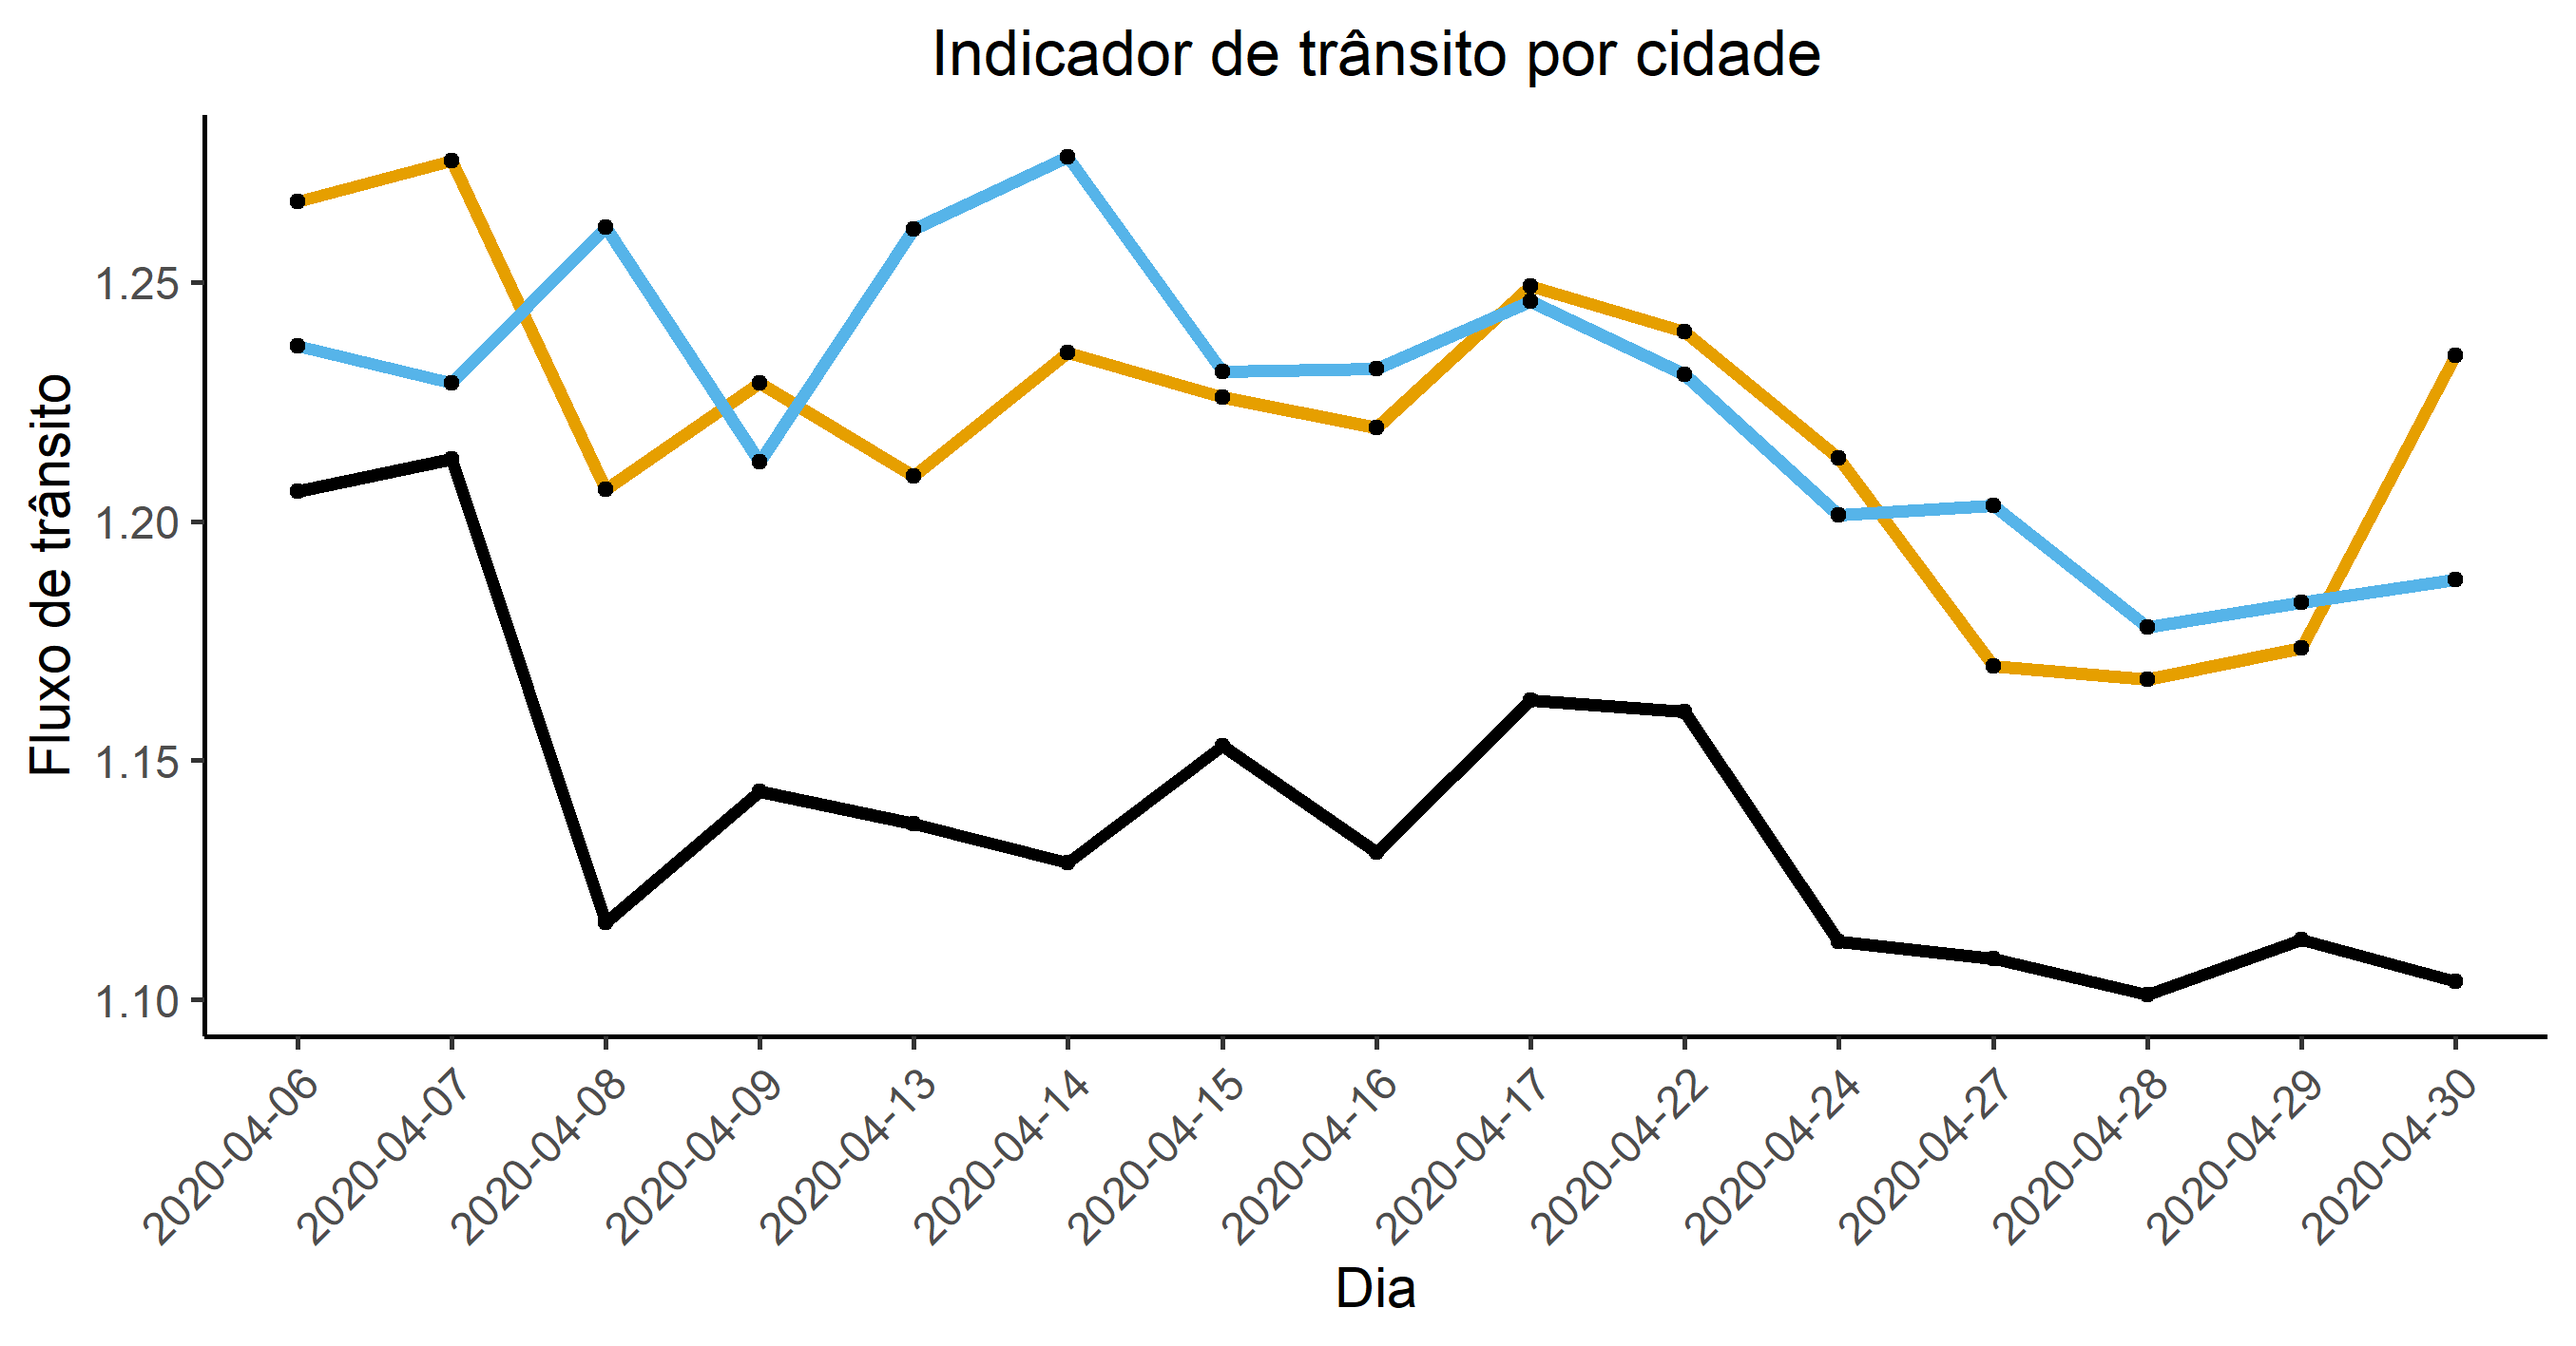
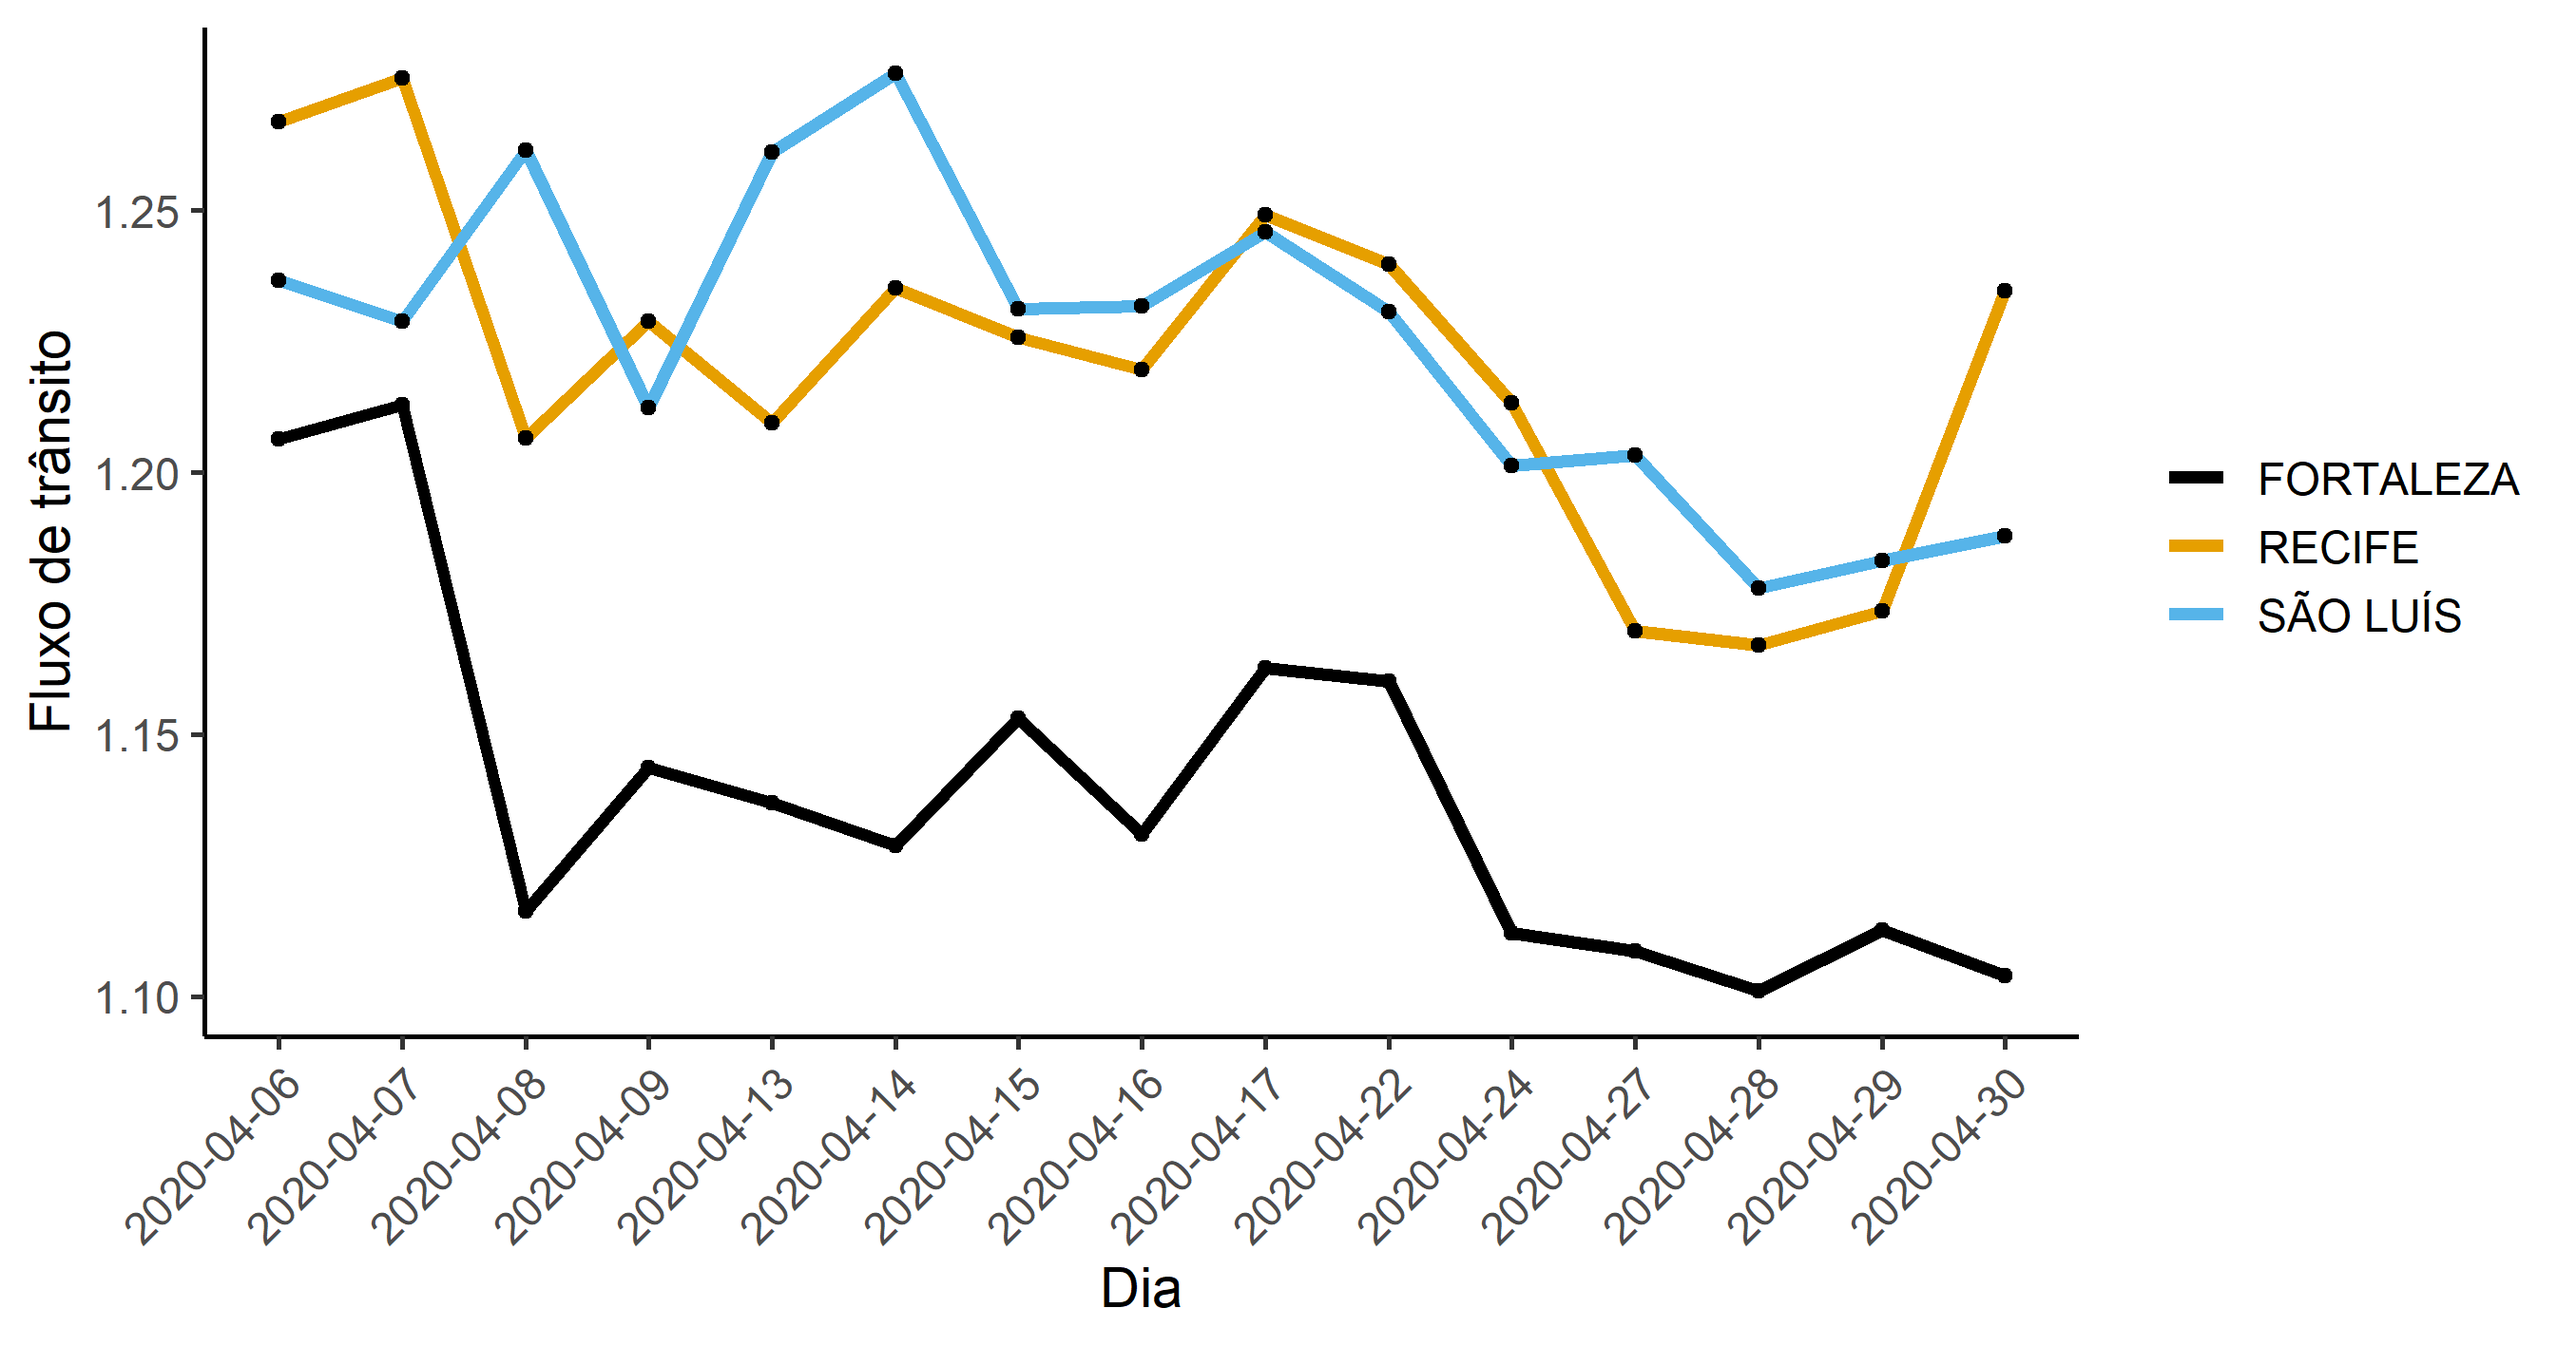
Gráficos mais limpos

diff --git a/index.html b/index.html
@@ -318,7 +318,7 @@ $(document).ready(function () {
 <p>
  
 </p>
-<p>Você também pode ver o indicador individualizado para cada uma das cidades <a href="Bycity.Rmd">AQUI</a>.</p>
+<p>Você também pode ver o indicador individualizado para cada uma das cidades <a href="Bycity.md">AQUI</a>.</p>
 <p>
  
 </p>
